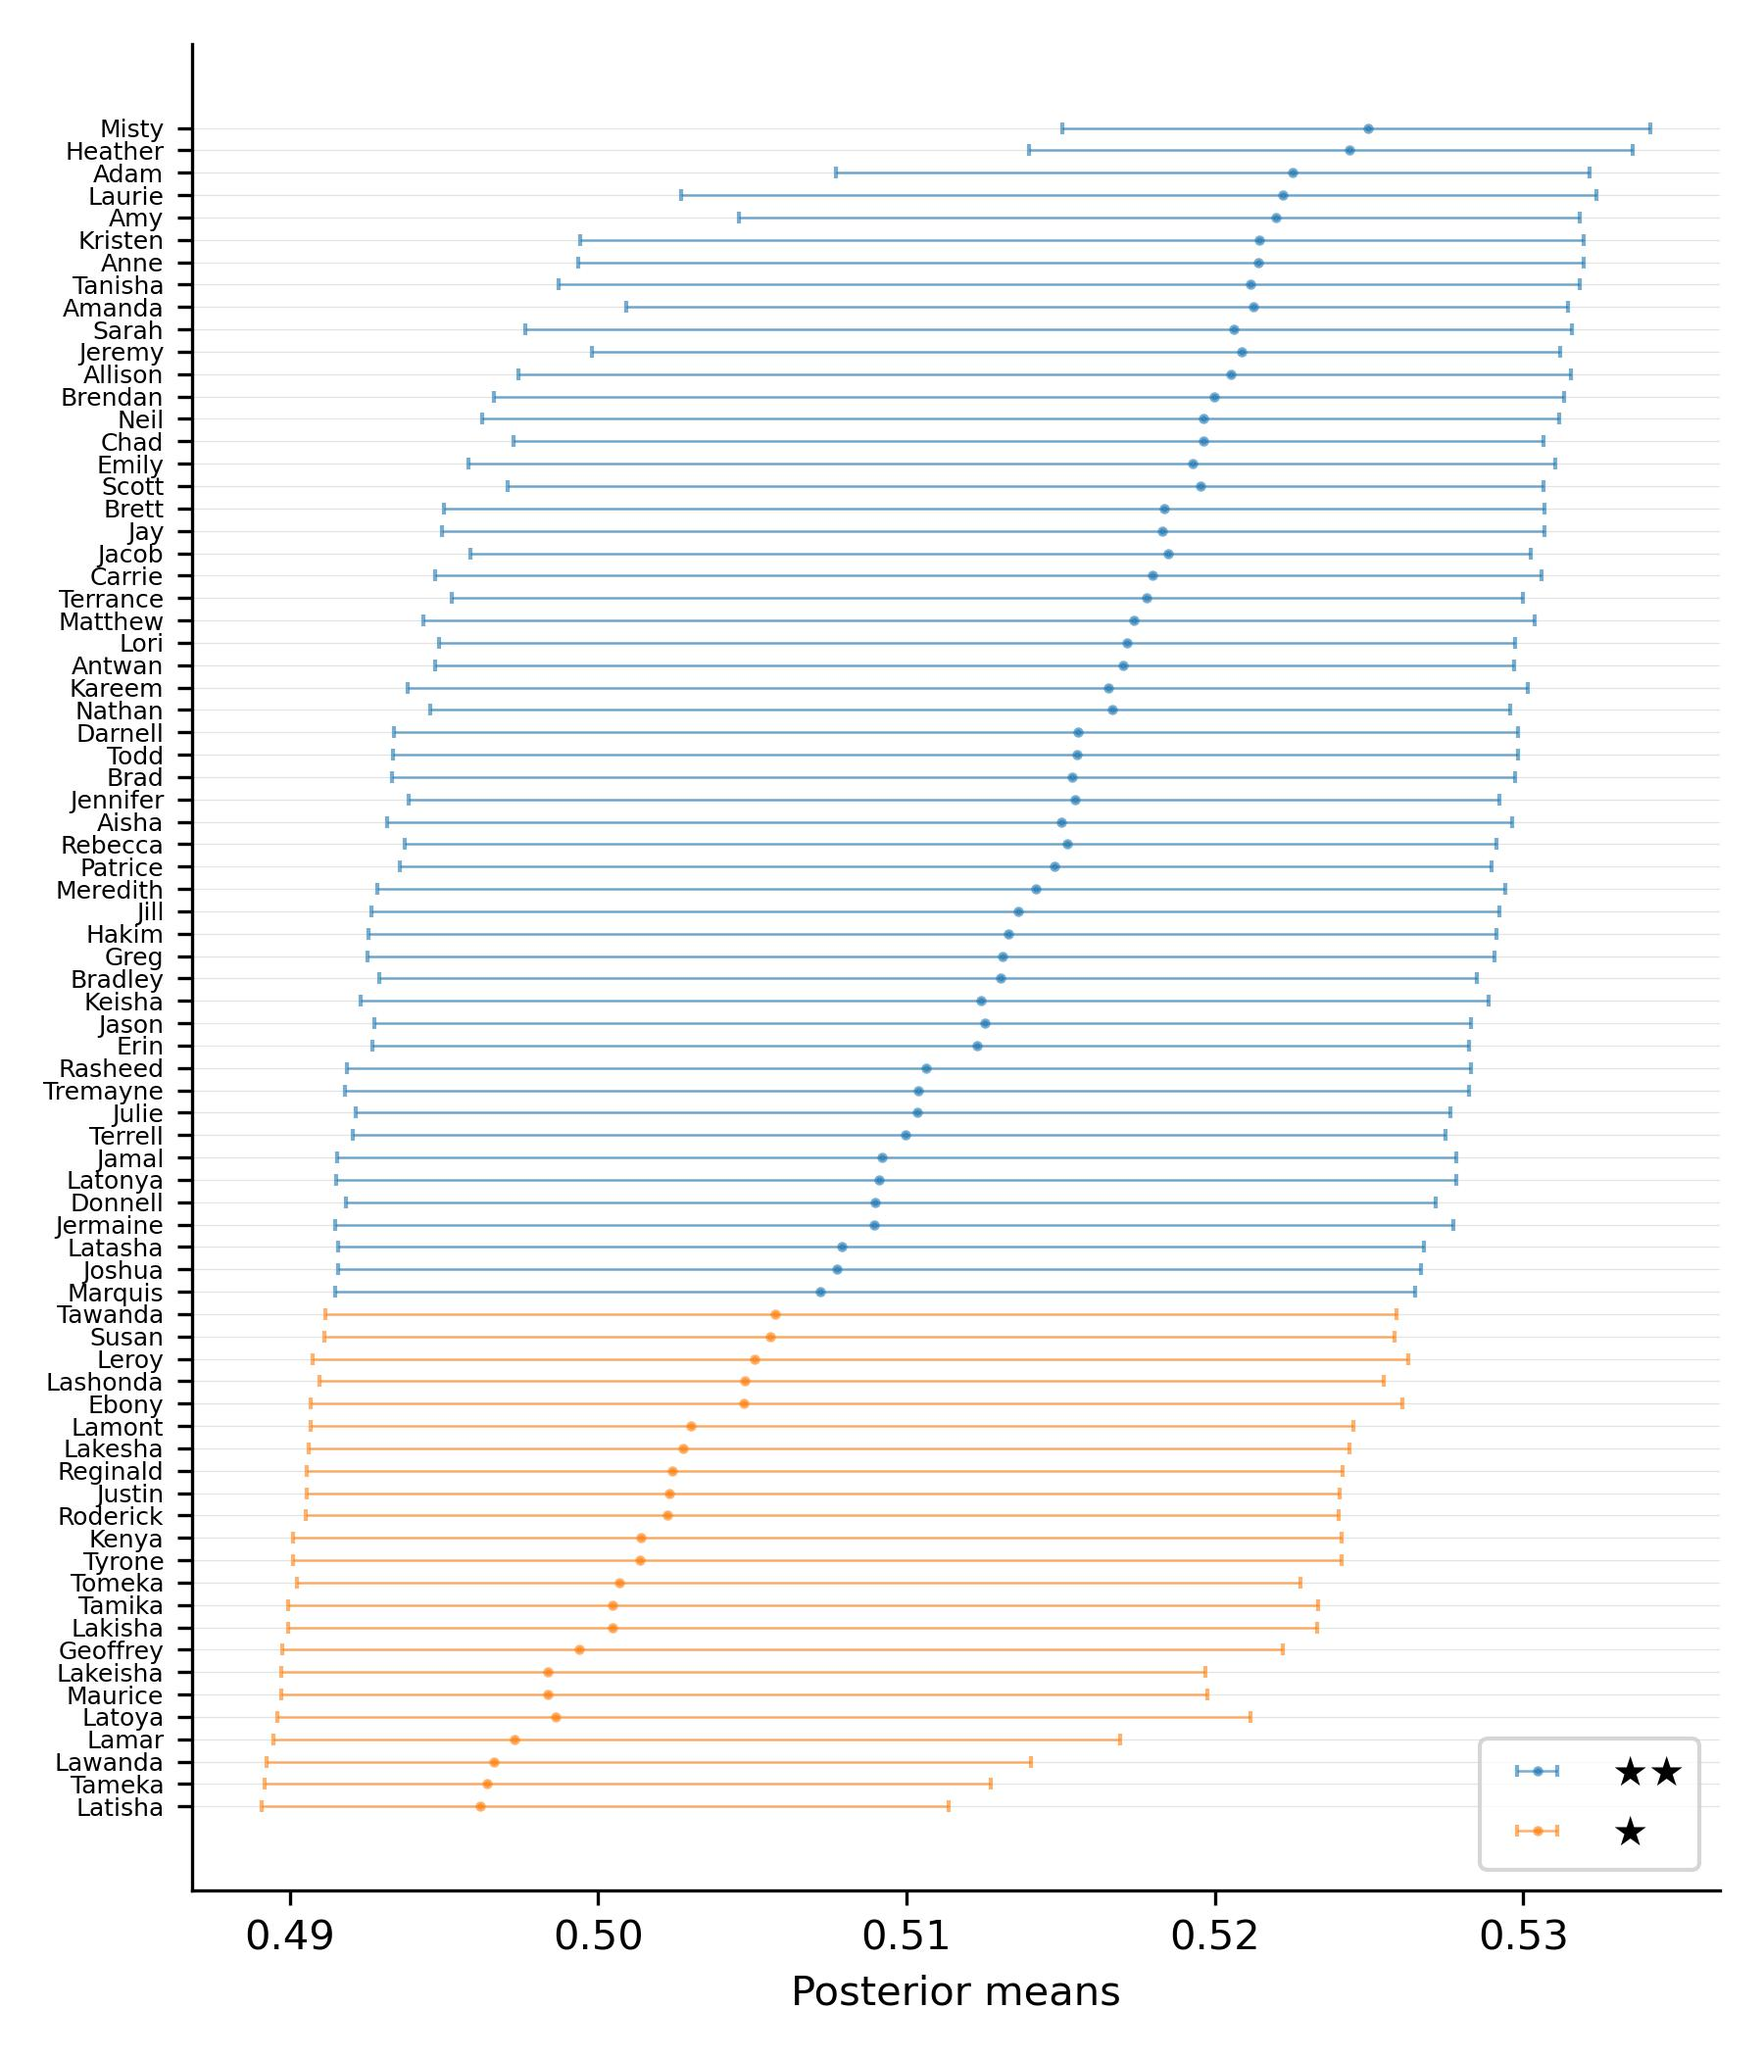
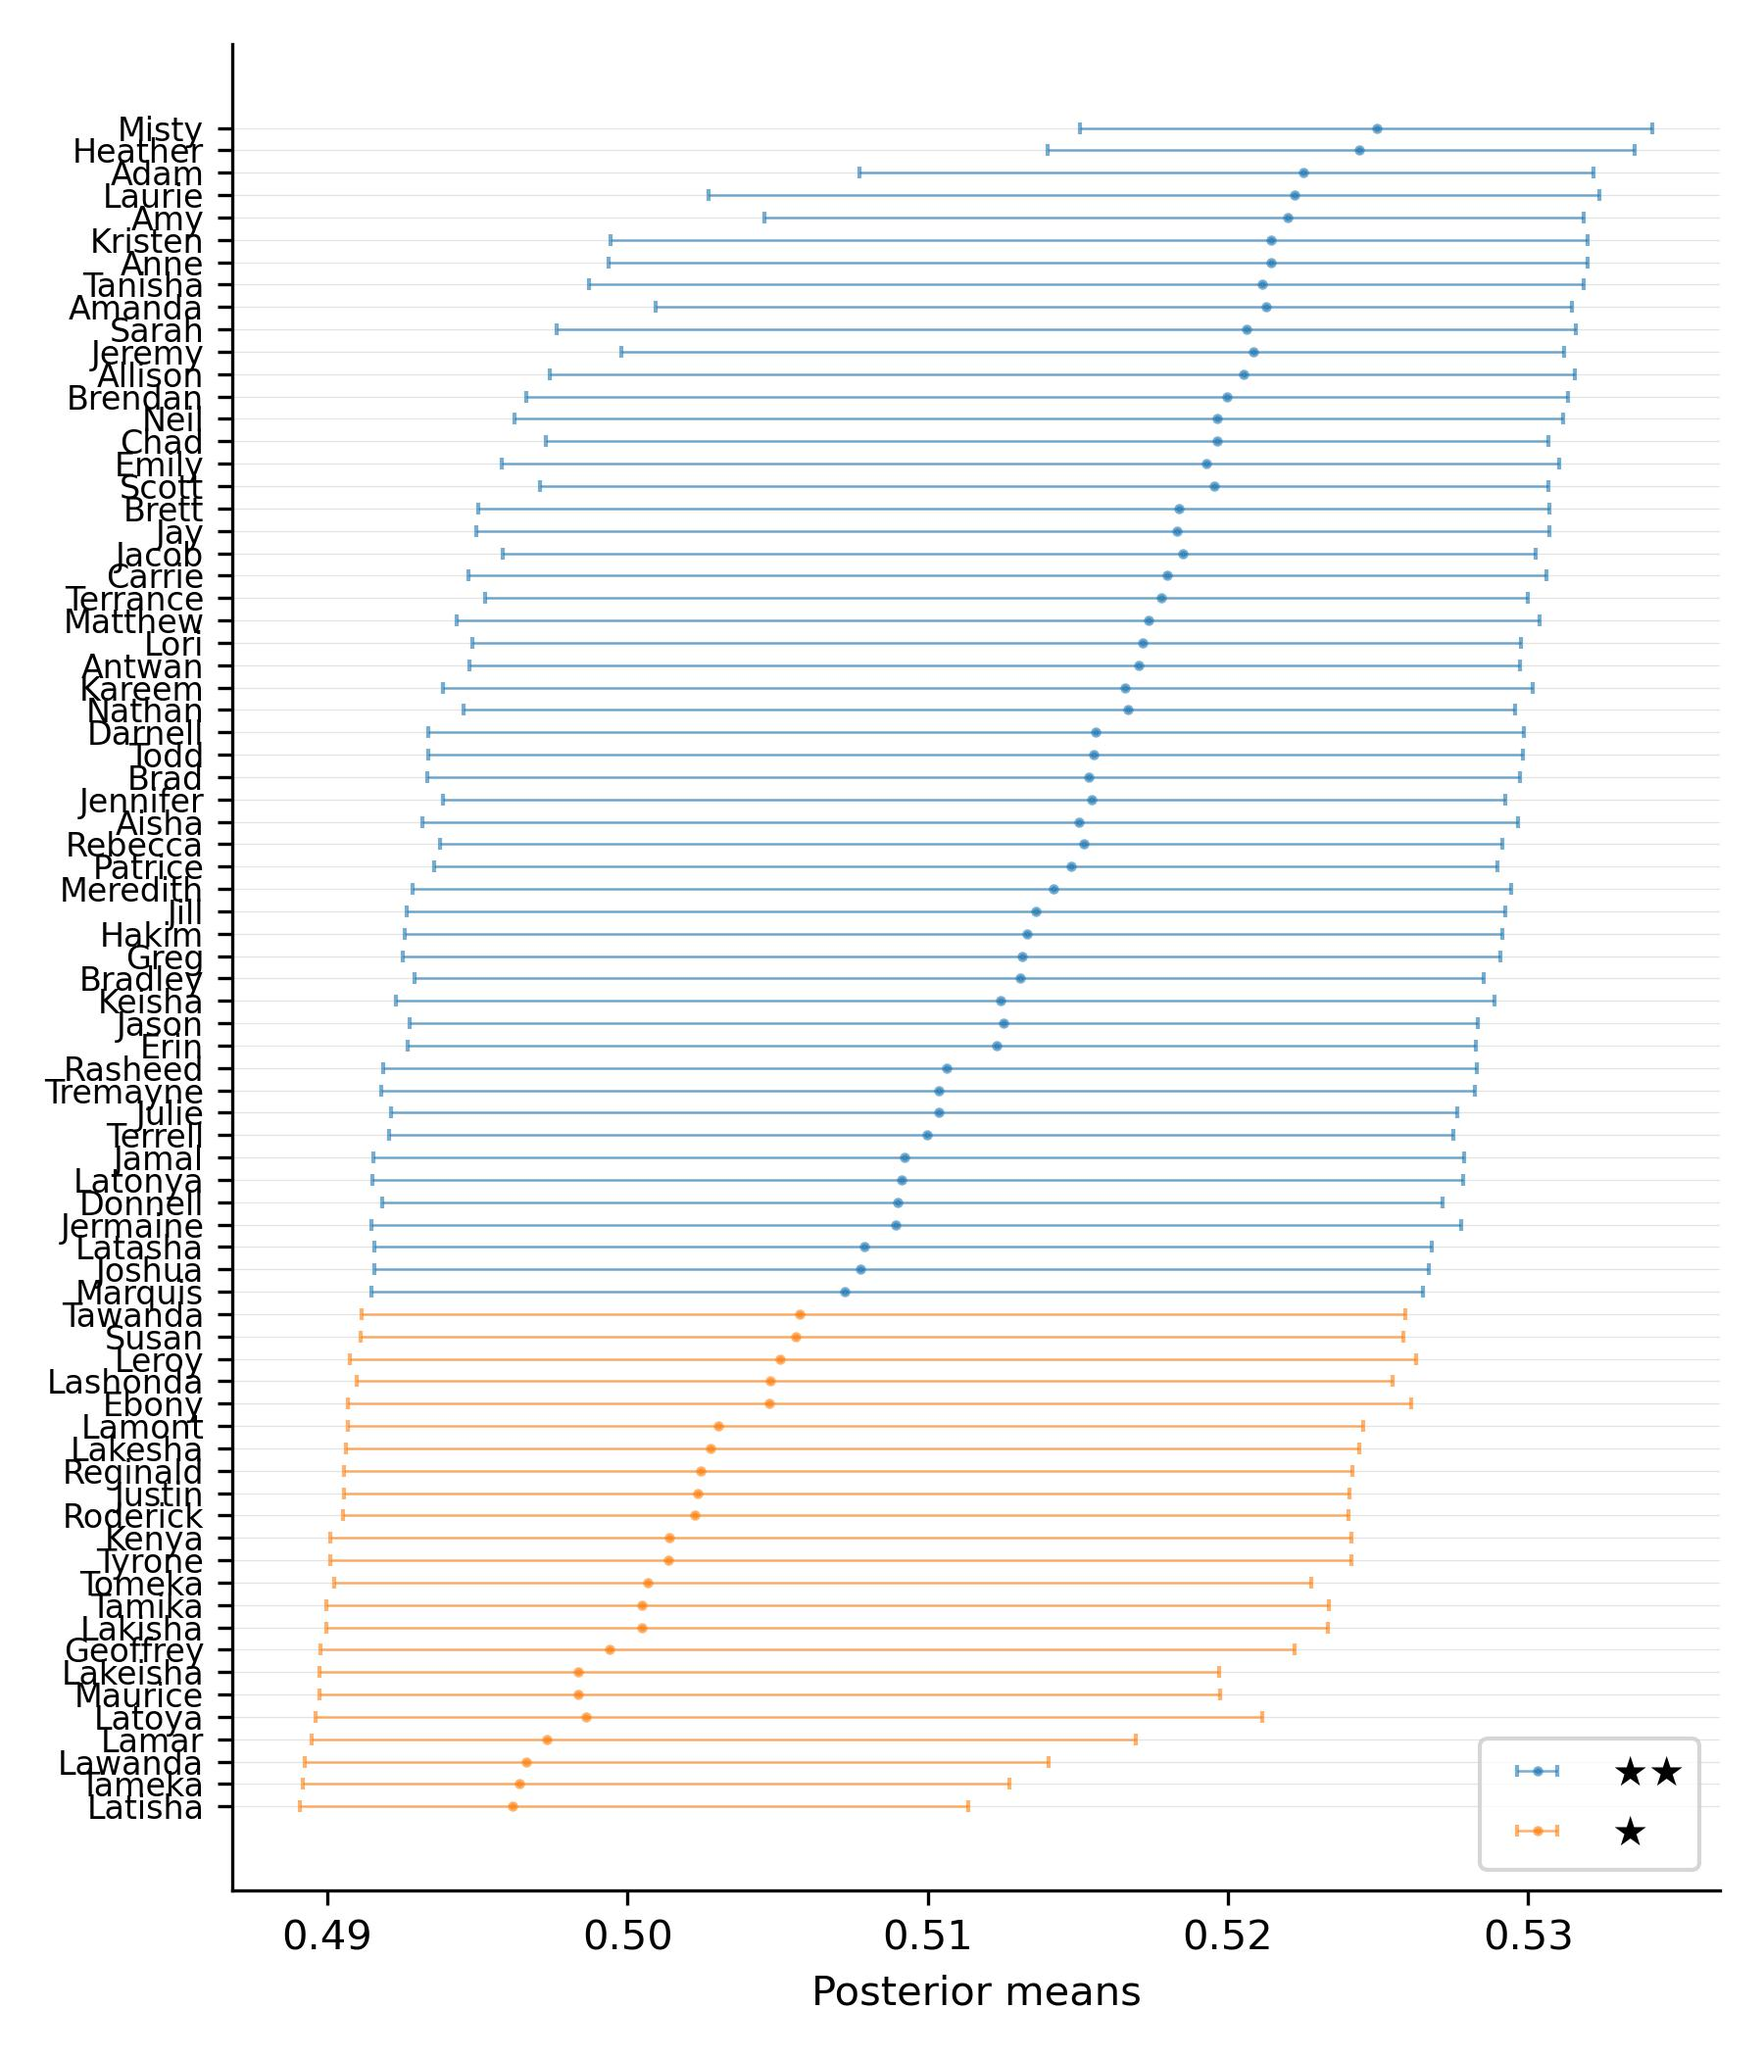
more font size changes

diff --git a/src/drrank.py b/src/drrank.py
@@ -256,7 +256,7 @@ def fit_multiple(Pij, lamb_list, ncores = 1, save_controls = False, save_dir = "
     return final_df
 
 
-def fig_ranks(ranking, posterior_features, gradecol=None, ylabels=None, show_plot=True, save_path=None, trans=False):
+def fig_ranks(ranking, posterior_features, gradecol=None, ylabels=None, show_plot=True, save_path=None, trans=False, ylabel_fontsize=8):
     """
     Function to plot an histogram of the estimates
     Arguments:
@@ -315,9 +315,9 @@ def fig_ranks(ranking, posterior_features, gradecol=None, ylabels=None, show_plo
     plt.grid(axis='y', alpha=0.35, linewidth=0.3)
     plt.legend(mean_lines, labels, loc='lower right', markerscale=1)
     if ylabels != None:
-        plt.yticks(y_range, df_plot[ylabels], fontsize=6)    
+        plt.yticks(y_range, df_plot[ylabels], fontsize=ylabel_fontsize)    
     else:
-        plt.yticks(y_range, df_plot['obs_idx'], fontsize=6)    
+        plt.yticks(y_range, df_plot['obs_idx'], fontsize=ylabel_fontsize)    
 
     ax1.set_xlabel('Posterior means')
     ax1.spines['right'].set_visible(False)
